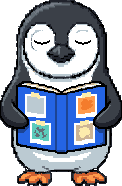
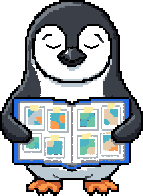
Linu do álbum maior na grade e piscar sem arcos fantasma
A pose do álbum foi gerada de novo ocupando a altura (143 × 196), e o quadro de olhos fechados
não deixa mais o anel cinza do olho. Versões ?v=hash em toda referência a arquivo (os mapas sem o
Linu pintado chegam na hora); o rotas.py ignora a versão ao conferir.

diff --git a/index.html b/index.html
@@ -6,9 +6,9 @@
   <title>Família Linu: as ilhas do Linu Sites, do Digital e do Seguro</title>
   <meta name="description" content="Um arquipélago, uma família: o Linu Sites faz o site, o Digital Linu cuida das redes e dos anúncios, o Linu Seguro protege o negócio. Rotas que juntam os três, com uma conversa só.">
   <meta name="theme-color" content="#1F2A44">
-  <link rel="icon" href="img/linu-logo.png" type="image/png" sizes="128x128">
-  <link rel="icon" href="img/icone-32.png" type="image/png" sizes="32x32">
-  <link rel="apple-touch-icon" href="img/icone-180.png">
+  <link rel="icon" href="img/linu-logo.png?v=04939f80" type="image/png" sizes="128x128">
+  <link rel="icon" href="img/icone-32.png?v=af06fd2b" type="image/png" sizes="32x32">
+  <link rel="apple-touch-icon" href="img/icone-180.png?v=0174d73d">
   <meta property="og:title" content="Família Linu">
   <meta property="og:description" content="Site, redes sociais, anúncios e segurança para pequenos negócios, cada um na sua ilha, e a LinuPedia, onde o Linu nasceu.">
   <meta property="og:type" content="website">
@@ -20,22 +20,22 @@
   <meta name="twitter:card" content="summary_large_image">
   <meta http-equiv="Content-Security-Policy" content="default-src 'self'; img-src 'self' data:; font-src 'self'; style-src 'self'; script-src 'self'; connect-src 'self'; object-src 'none'; base-uri 'self'; form-action 'self'">
   <link rel="canonical" href="https://familia.linupedia.com.br/">
-  <link rel="preload" href="fontes/pixelify-sans-latin.woff2" as="font" type="font/woff2" crossorigin>
-  <script src="js/tema-inicio.js?v=1"></script>
-  <link rel="stylesheet" href="css/fontes-pixel.css?v=1">
-  <link rel="stylesheet" href="css/estilo.css?v=2">
-  <link rel="stylesheet" href="css/marcas.css?v=1">
-  <link rel="stylesheet" href="css/movimento.css?v=1">
-  <script src="js/familia.js?v=2" defer></script>
-  <script src="js/linu-vivo.js?v=1" defer></script>
-  <script src="js/mapa-linu.js?v=1" defer></script>
-  <script src="js/movimento.js?v=1" defer></script>
+  <link rel="preload" href="fontes/pixelify-sans-latin.woff2?v=4a5633a0" as="font" type="font/woff2" crossorigin>
+  <script src="js/tema-inicio.js?v=b2e4d710"></script>
+  <link rel="stylesheet" href="css/fontes-pixel.css?v=5a3ab9f0">
+  <link rel="stylesheet" href="css/estilo.css?v=2b990f9f">
+  <link rel="stylesheet" href="css/marcas.css?v=d6a160e5">
+  <link rel="stylesheet" href="css/movimento.css?v=6c3684a3">
+  <script src="js/familia.js?v=55d5ccba" defer></script>
+  <script src="js/linu-vivo.js?v=daf0f399" defer></script>
+  <script src="js/mapa-linu.js?v=13d2e836" defer></script>
+  <script src="js/movimento.js?v=c068d761" defer></script>
 </head>
 <body>
   <header class="topo">
     <div class="dentro topo-dentro">
       <a class="marca" href="./" aria-label="Família Linu, início">
-        <img src="img/linu-logo.png" alt="" width="40" height="40">
+        <img src="img/linu-logo.png?v=04939f80" alt="" width="40" height="40">
         <span>Família Linu</span>
       </a>
       <nav class="menu" aria-label="Seções">
@@ -67,8 +67,8 @@
       </div>
       <div class="mapa">
         <div class="mapa-largo">
-          <img class="pixel mapa-dia" src="img/mapa-largo-dia.png" alt="Mapa em pixel art de sete ilhas: a estação do Linu Sites, o estúdio do Digital Linu, o iglu do Linu Seguro, o acampamento da LinuPedia, a casa da Família Linu no meio, com o Linu no cais, e duas ilhas vagas" width="384" height="216">
-          <img class="pixel mapa-noite" src="img/mapa-largo-noite.png" alt="O mesmo mapa das ilhas, à noite, com as janelas acesas" width="384" height="216">
+          <img class="pixel mapa-dia" src="img/mapa-largo-dia.png?v=d0fb8fa2" alt="Mapa em pixel art de sete ilhas: a estação do Linu Sites, o estúdio do Digital Linu, o iglu do Linu Seguro, o acampamento da LinuPedia, a casa da Família Linu no meio, com o Linu no cais, e duas ilhas vagas" width="384" height="216">
+          <img class="pixel mapa-noite" src="img/mapa-largo-noite.png?v=09660003" alt="O mesmo mapa das ilhas, à noite, com as janelas acesas" width="384" height="216">
           <div class="marcas">
             <a class="marca-ilha m-l-sites" href="https://sites.linupedia.com.br/">Linu Sites</a>
             <a class="marca-ilha m-l-digital" href="https://digital.linupedia.com.br/">Digital Linu</a>
@@ -80,8 +80,8 @@
           </div>
         </div>
         <div class="mapa-alto">
-          <img class="pixel mapa-dia" src="img/mapa-alto-dia.png" alt="Mapa em pixel art de sete ilhas, de cima para baixo: a estação do Linu Sites, o estúdio do Digital Linu, a casa da Família Linu com o Linu no cais, o iglu do Linu Seguro, o acampamento da LinuPedia e duas ilhas vagas" width="176" height="312">
-          <img class="pixel mapa-noite" src="img/mapa-alto-noite.png" alt="O mesmo mapa das ilhas, à noite, com as janelas acesas" width="176" height="312">
+          <img class="pixel mapa-dia" src="img/mapa-alto-dia.png?v=f3d2f15b" alt="Mapa em pixel art de sete ilhas, de cima para baixo: a estação do Linu Sites, o estúdio do Digital Linu, a casa da Família Linu com o Linu no cais, o iglu do Linu Seguro, o acampamento da LinuPedia e duas ilhas vagas" width="176" height="312">
+          <img class="pixel mapa-noite" src="img/mapa-alto-noite.png?v=ad1c6a6c" alt="O mesmo mapa das ilhas, à noite, com as janelas acesas" width="176" height="312">
           <div class="marcas">
             <a class="marca-ilha m-a-sites" href="https://sites.linupedia.com.br/">Linu Sites</a>
             <a class="marca-ilha m-a-digital" href="https://digital.linupedia.com.br/">Digital Linu</a>
@@ -101,7 +101,7 @@
         <p class="secao-sub" data-mov="sobe">A legenda do mapa. Cada ilha tem o seu endereço, a sua cor e a sua casa; o Linu é o mesmo em todas.</p>
         <ul class="ilhas" data-mov-grupo="sobe">
           <li class="ilha">
-            <img class="pixel ilha-img" data-mov="cortina" src="img/ilha-sites.png" alt="" width="264" height="164" loading="lazy">
+            <img class="pixel ilha-img" data-mov="cortina" src="img/ilha-sites.png?v=5ed943eb" alt="" width="264" height="164" loading="lazy">
             <div class="ilha-texto">
               <h3>Linu Sites</h3>
               <p>A estação: sites, sistemas e aplicativos sob medida, com o lampião que o Linu apaga à noite.</p>
@@ -110,7 +110,7 @@
             </div>
           </li>
           <li class="ilha">
-            <img class="pixel ilha-img" data-mov="cortina" src="img/ilha-digital.png" alt="" width="232" height="140" loading="lazy">
+            <img class="pixel ilha-img" data-mov="cortina" src="img/ilha-digital.png?v=b6b58635" alt="" width="232" height="140" loading="lazy">
             <div class="ilha-texto">
               <h3>Digital Linu</h3>
               <p>O estúdio: vídeo, redes sociais, anúncios, marca e automação.</p>
@@ -119,7 +119,7 @@
             </div>
           </li>
           <li class="ilha">
-            <img class="pixel ilha-img" data-mov="cortina" src="img/ilha-seguro.png" alt="" width="244" height="148" loading="lazy">
+            <img class="pixel ilha-img" data-mov="cortina" src="img/ilha-seguro.png?v=1c79bf6d" alt="" width="244" height="148" loading="lazy">
             <div class="ilha-texto">
               <h3>Linu Seguro</h3>
               <p>O iglu: golpes, senhas, cópias de segurança, e-mail e site protegidos, bloco por bloco.</p>
@@ -128,7 +128,7 @@
             </div>
           </li>
           <li class="ilha">
-            <img class="pixel ilha-img" data-mov="cortina" src="img/ilha-pedia.png" alt="" width="252" height="184" loading="lazy">
+            <img class="pixel ilha-img" data-mov="cortina" src="img/ilha-pedia.png?v=cc1c0d07" alt="" width="252" height="184" loading="lazy">
             <div class="ilha-texto">
               <h3>LinuPedia</h3>
               <p>O acampamento da expedição, onde o Linu nasceu: idiomas e áreas do conhecimento para estudar de graça, sem propaganda.</p>
@@ -137,7 +137,7 @@
             </div>
           </li>
         </ul>
-        <p class="vagas" data-mov="sobe"><img class="pixel" data-linu-vivo data-piscar="img/linu-album-piscando.png" src="img/linu-album.png" alt="" width="122" height="186" loading="lazy"><span><b>Duas ilhas vagas.</b> O marco
+        <p class="vagas" data-mov="sobe"><img class="pixel" data-linu-vivo data-piscar="img/linu-album-piscando.png?v=fa7bdaf4" src="img/linu-album.png?v=cb180242" alt="" width="143" height="196" loading="lazy"><span><b>Duas ilhas vagas.</b> O marco
           e as tábuas já estão lá, esperando os próximos irmãos da família.</span></p>
       </div>
     </section>
@@ -164,7 +164,7 @@
           <article class="rota">
             <h3 class="rota-nome">Rota Abrir as portas</h3>
             <p>Para quem ainda não aparece na internet: o site, o Google e o WhatsApp prontos de uma vez.</p>
-            <ol class="rota-paradas" data-mov-grupo="lado" title="As ilhas desta rota"><li><img class="pixel" src="img/ilha-sites-p.png" alt="" width="66" height="41"><span>Linu Sites</span></li><li><img class="pixel" src="img/ilha-digital-p.png" alt="" width="58" height="35"><span>Digital Linu</span></li><li><img class="pixel" src="img/ilha-seguro-p.png" alt="" width="61" height="37"><span>Linu Seguro</span></li></ol>
+            <ol class="rota-paradas" data-mov-grupo="lado" title="As ilhas desta rota"><li><img class="pixel" src="img/ilha-sites-p.png?v=d8697db7" alt="" width="66" height="41"><span>Linu Sites</span></li><li><img class="pixel" src="img/ilha-digital-p.png?v=76141bc9" alt="" width="58" height="35"><span>Digital Linu</span></li><li><img class="pixel" src="img/ilha-seguro-p.png?v=35e524f1" alt="" width="61" height="37"><span>Linu Seguro</span></li></ol>
             <ul class="rota-itens">
               <li>Site de apresentação<span class="valor">R$&nbsp;1.200</span><small class="de-sites">Linu Sites</small></li>
               <li>Plano No ar (servidor, HTTPS, cópias)<span class="valor">R$&nbsp;60 por mês</span><small class="de-sites">Linu Sites</small></li>
@@ -178,7 +178,7 @@
           <article class="rota rota-destaque">
             <h3 class="rota-nome">Rota Crescer com segurança</h3>
             <p>Para quem já tem cliente: constância nas redes e o negócio protegido enquanto cresce.</p>
-            <ol class="rota-paradas" data-mov-grupo="lado" title="As ilhas desta rota"><li><img class="pixel" src="img/ilha-digital-p.png" alt="" width="58" height="35"><span>Digital Linu</span></li><li><img class="pixel" src="img/ilha-seguro-p.png" alt="" width="61" height="37"><span>Linu Seguro</span></li></ol>
+            <ol class="rota-paradas" data-mov-grupo="lado" title="As ilhas desta rota"><li><img class="pixel" src="img/ilha-digital-p.png?v=76141bc9" alt="" width="58" height="35"><span>Digital Linu</span></li><li><img class="pixel" src="img/ilha-seguro-p.png?v=35e524f1" alt="" width="61" height="37"><span>Linu Seguro</span></li></ol>
             <ul class="rota-itens">
               <li>Gestão mensal de Instagram<span class="valor">R$&nbsp;900 por mês</span><small class="de-digital">Digital Linu</small></li>
               <li>Reels, Shorts e TikTok<span class="valor">R$&nbsp;400 por mês</span><small class="de-digital">Digital Linu</small></li>
@@ -191,7 +191,7 @@
           <article class="rota">
             <h3 class="rota-nome">Rota Tudo junto</h3>
             <p>Site, marca, redes, anúncios e segurança andando juntos, com uma conversa só.</p>
-            <ol class="rota-paradas" data-mov-grupo="lado" title="As ilhas desta rota"><li><img class="pixel" src="img/ilha-sites-p.png" alt="" width="66" height="41"><span>Linu Sites</span></li><li><img class="pixel" src="img/ilha-digital-p.png" alt="" width="58" height="35"><span>Digital Linu</span></li><li><img class="pixel" src="img/ilha-seguro-p.png" alt="" width="61" height="37"><span>Linu Seguro</span></li></ol>
+            <ol class="rota-paradas" data-mov-grupo="lado" title="As ilhas desta rota"><li><img class="pixel" src="img/ilha-sites-p.png?v=d8697db7" alt="" width="66" height="41"><span>Linu Sites</span></li><li><img class="pixel" src="img/ilha-digital-p.png?v=76141bc9" alt="" width="58" height="35"><span>Digital Linu</span></li><li><img class="pixel" src="img/ilha-seguro-p.png?v=35e524f1" alt="" width="61" height="37"><span>Linu Seguro</span></li></ol>
             <ul class="rota-itens">
               <li>Site de apresentação<span class="valor">R$&nbsp;1.200</span><small class="de-sites">Linu Sites</small></li>
               <li>Plano No ar<span class="valor">R$&nbsp;60 por mês</span><small class="de-sites">Linu Sites</small></li>
@@ -251,7 +251,7 @@
             <a class="botao botao-linha-clara" href="mailto:contato@linupedia.com.br?subject=Fam%C3%ADlia%20Linu">Mandar por e-mail</a>
           </div>
         </div>
-        <img class="pixel contato-linu" data-mov="cortina" data-linu-vivo data-piscar="img/linu-frente-piscando.png" src="img/linu-frente.png" alt="O Linu, de frente, esperando a sua mensagem" width="172" height="190" loading="lazy">
+        <img class="pixel contato-linu" data-mov="cortina" data-linu-vivo data-piscar="img/linu-frente-piscando.png?v=bdd2509a" src="img/linu-frente.png?v=015c42f4" alt="O Linu, de frente, esperando a sua mensagem" width="172" height="190" loading="lazy">
       </div>
     </section>
   </main>

diff --git a/identidade.html b/identidade.html
@@ -6,25 +6,25 @@
   <title>Identidade visual | Família Linu</title>
   <meta name="description" content="A identidade da família Linu: o Linu em pixel art, as cores, as letras e o objeto de cada site (LinuPedia, Linu Sites, Digital Linu, Linu Seguro e Família Linu).">
   <meta name="theme-color" content="#1F2A44">
-  <link rel="icon" href="img/linu-logo.png" type="image/png" sizes="128x128">
-  <link rel="icon" href="img/icone-32.png" type="image/png" sizes="32x32">
-  <link rel="apple-touch-icon" href="img/icone-180.png">
+  <link rel="icon" href="img/linu-logo.png?v=04939f80" type="image/png" sizes="128x128">
+  <link rel="icon" href="img/icone-32.png?v=af06fd2b" type="image/png" sizes="32x32">
+  <link rel="apple-touch-icon" href="img/icone-180.png?v=0174d73d">
   <meta property="og:title" content="Identidade visual | Família Linu">
   <meta property="og:url" content="https://familia.linupedia.com.br/identidade">
   <meta property="og:image" content="https://familia.linupedia.com.br/img/compartilhar.png">
   <meta http-equiv="Content-Security-Policy" content="default-src 'self'; img-src 'self' data:; font-src 'self'; style-src 'self'; script-src 'self'; connect-src 'self'; object-src 'none'; base-uri 'self'; form-action 'self'">
   <link rel="canonical" href="https://familia.linupedia.com.br/identidade">
-  <link rel="preload" href="fontes/nunito-latin.woff2" as="font" type="font/woff2" crossorigin>
-  <script src="js/tema-inicio.js?v=1"></script>
-  <link rel="stylesheet" href="css/fontes-pixel.css?v=1">
-  <link rel="stylesheet" href="css/estilo.css?v=2">
-  <script src="js/familia.js?v=2" defer></script>
+  <link rel="preload" href="fontes/nunito-latin.woff2?v=ba344451" as="font" type="font/woff2" crossorigin>
+  <script src="js/tema-inicio.js?v=b2e4d710"></script>
+  <link rel="stylesheet" href="css/fontes-pixel.css?v=5a3ab9f0">
+  <link rel="stylesheet" href="css/estilo.css?v=2b990f9f">
+  <script src="js/familia.js?v=55d5ccba" defer></script>
 </head>
 <body class="pagina-identidade">
   <header class="topo">
     <div class="dentro topo-dentro">
       <a class="marca" href="./" aria-label="Família Linu, início">
-        <img src="img/linu-logo.png" alt="" width="40" height="40">
+        <img src="img/linu-logo.png?v=04939f80" alt="" width="40" height="40">
         <span>Família Linu</span>
       </a>
       <nav class="menu" aria-label="Seções">
@@ -49,7 +49,7 @@
           grafite são de todos.</p>
         <div class="identidade-grade">
           <figure class="identidade-linu">
-            <img class="pixel" src="img/linu-frente.png" alt="O Linu em pixel art, de frente" width="172" height="190" loading="lazy">
+            <img class="pixel" src="img/linu-frente.png?v=015c42f4" alt="O Linu em pixel art, de frente" width="172" height="190" loading="lazy">
             <figcaption><b>O Linu</b>Um pinguim-de-barbicha em pixel art, que sai da Antártica e viaja pelo mundo na
               LinuPedia. Aparece em todos os sites da família, sempre no traço de pixel, nunca redesenhado liso.</figcaption>
           </figure>

diff --git a/404.html b/404.html
@@ -6,10 +6,10 @@
   <title>Página não encontrada | Família Linu</title>
   <meta name="robots" content="noindex">
   <meta name="theme-color" content="#1F2A44">
-  <link rel="icon" href="/img/linu-logo.png" type="image/png" sizes="128x128">
-  <script src="/js/tema-inicio.js?v=1"></script>
-  <link rel="stylesheet" href="/css/fontes-pixel.css?v=1">
-  <link rel="stylesheet" href="/css/estilo.css?v=2">
+  <link rel="icon" href="/img/linu-logo.png?v=04939f80" type="image/png" sizes="128x128">
+  <script src="/js/tema-inicio.js?v=b2e4d710"></script>
+  <link rel="stylesheet" href="/css/fontes-pixel.css?v=5a3ab9f0">
+  <link rel="stylesheet" href="/css/estilo.css?v=2b990f9f">
 </head>
 <body>
   <main class="abertura erro">

diff --git a/css/estilo.css b/css/estilo.css
@@ -128,7 +128,7 @@ a.marca-ilha:hover { background: #FDE68A; transform: translate(-50%, calc(-50% -
 .ilha-texto .ilha-preco { color: var(--tinta); font-weight: 800; }
 .ilha .botao { margin-top: 6px; }
 .vagas { display: flex; align-items: center; gap: 16px; margin: 28px 0 0; padding: 14px 16px; border: 3px dashed var(--borda); color: var(--tinta-suave); }
-.vagas img { width: 122px; flex: none; }   /* o Linu com o álbum em 1× */
+.vagas img { width: 143px; flex: none; }   /* o Linu com o álbum em 1× */
 .vagas b { color: var(--tinta); font-family: "Pixelify Sans", sans-serif; font-weight: 500; font-size: 1.15rem; }
 
 /* Para onde ir */

diff --git a/ferramentas/versao-arquivos.py b/ferramentas/versao-arquivos.py
@@ -1,0 +1,64 @@
+"""A versão de cada arquivo pelo conteúdo (07/11/2026): põe ?v=<8 letras do hash> em todo src, href e data-piscar
+local das páginas, para o navegador baixar de novo só o que mudou.
+
+    python3 versao-arquivos.py <pasta do site> [página.html ...] [--conferir]
+
+Por quê: o Caddy dos sites manda guardar /img, /css, /js e /fontes por 7 dias. Sem a versão no endereço, quem já
+visitou continua vendo a imagem ou o CSS velho por até uma semana depois de publicar. Com o hash, o endereço muda
+quando o arquivo muda, e só nesse caso. Sem página na linha de comando, pega todos os .html da pasta (sem descer).
+--conferir só diz se alguma página está desatualizada (o Actions roda assim e reprova).
+O original mora em linuarquivos/modelos/ferramentas/; cada site tem uma cópia em ferramentas/.
+"""
+import hashlib
+import re
+import sys
+from pathlib import Path
+
+ATRIBUTO = re.compile(r'\b(src|href|data-piscar)="([^"#?]+?\.(?:png|jpg|jpeg|webp|gif|svg|css|js|woff2|ico))(\?v=[^"]*)?"')
+
+
+def versao(arquivo):
+    return hashlib.sha256(arquivo.read_bytes()).hexdigest()[:8]
+
+
+def carimbar(pasta, pagina):
+    texto = pagina.read_text(encoding='utf-8')
+    faltam = []
+
+    def trocar(m):
+        attr, caminho, _ = m.groups()
+        if caminho.startswith(('http:', 'https:', '//', 'data:', 'mailto:')):
+            return m.group(0)
+        alvo = (pasta / caminho.lstrip('/')) if caminho.startswith('/') else (pagina.parent / caminho)
+        if not alvo.is_file():
+            faltam.append(caminho)
+            return m.group(0)
+        return f'{attr}="{caminho}?v={versao(alvo)}"'
+
+    return texto, ATRIBUTO.sub(trocar, texto), faltam
+
+
+def main():
+    args = [a for a in sys.argv[1:] if not a.startswith('--')]
+    if not args:
+        sys.exit(__doc__)
+    pasta = Path(args[0]).resolve()
+    paginas = [Path(p).resolve() for p in args[1:]] or sorted(pasta.glob('*.html'))
+    atrasadas = 0
+    for pagina in paginas:
+        antes, depois, faltam = carimbar(pasta, pagina)
+        for f in faltam:
+            print(f'  {pagina.name}: {f} não existe')
+        if depois != antes:
+            atrasadas += 1
+            if '--conferir' not in sys.argv:
+                pagina.write_text(depois, encoding='utf-8')
+                print(f'  {pagina.name}: versões atualizadas')
+    if '--conferir' in sys.argv:
+        print('As versões dos arquivos estão em dia.' if not atrasadas else
+              f'{atrasadas} página(s) com versão velha. Rode: python3 ferramentas/versao-arquivos.py .')
+        sys.exit(1 if atrasadas else 0)
+
+
+if __name__ == '__main__':
+    main()

diff --git a/ferramentas/rotas.py b/ferramentas/rotas.py
@@ -94,8 +94,11 @@ def main():
     depois = re.sub(r'(<p class="ilha-preco" data-irmao="(\w+)">).*?(</p>)',
                     lambda m: m.group(1) + f'{rotulo[m.group(2)]} {brl(menor[m.group(2)])}' + m.group(3), depois)
     if '--conferir' in sys.argv:
-        print('As rotas estão em dia.' if depois == antes else 'As rotas não batem com os preços dos irmãos.')
-        sys.exit(0 if depois == antes else 1)
+        # a versão dos arquivos (?v=, do versao-arquivos.py) não conta na comparação
+        sem_v = lambda s: re.sub(r'\?v=[0-9a-f]{8}', '', s)
+        igual = sem_v(depois) == sem_v(antes)
+        print('As rotas estão em dia.' if igual else 'As rotas não batem com os preços dos irmãos.')
+        sys.exit(0 if igual else 1)
     if depois != antes:
         pagina.write_text(depois, encoding='utf-8')
         print('index.html: rotas e legenda atualizadas com os preços dos irmãos.')

diff --git a/arte/linu-album/linu-album.md b/arte/linu-album/linu-album.md
@@ -11,7 +11,7 @@ Para a abertura da Família Linu: o Linu de frente segurando um álbum de fotos 
 ```
 Anexei uma imagem: o Linu, um pinguim em pixel art, de frente. Quero o MESMO Linu, idêntico ao anexo (o tamanho, o formato da cabeça e do corpo, a barriga branca, o bico cinza-escuro, os pés laranja na mesma linha, os olhos grandes e felizes, as mesmas cores e o mesmo contorno), de pé, de frente, segurando com as duas nadadeiras um álbum de fotos ABERTO virado para quem olha, na altura da barriga. O álbum tem capa azul (#2563EB) e, nas duas páginas, quatro fotinhos quadradas com borda branca e um pedaço de fita amarela clara em cima de cada uma; dentro das fotos, só manchas de cor simples (azul-claro, laranja, verde-azulado, bege), sem rostos e sem texto. O álbum cobre a barriga, mas a cabeça, os olhos, o bico e os pés aparecem inteiros. Ele sorri, orgulhoso.
 
-TAMANHO: o Linu com o álbum ocupa o meio da imagem, com no máximo 80% da altura, nada encostando na borda.
+TAMANHO: imagem QUADRADA; o Linu ocupa 88% da altura da imagem (grande, de cima a baixo), no meio, com só uma margem fina de magenta em volta e nada encostando na borda.
 
 Pixel art nítida, sem anti-aliasing, no mesmo tamanho de pixel do anexo. Fundo magenta puro (#FF00FF), sem sombra no chão, sem texto, sem letras e sem moldura. PNG.
 ```
